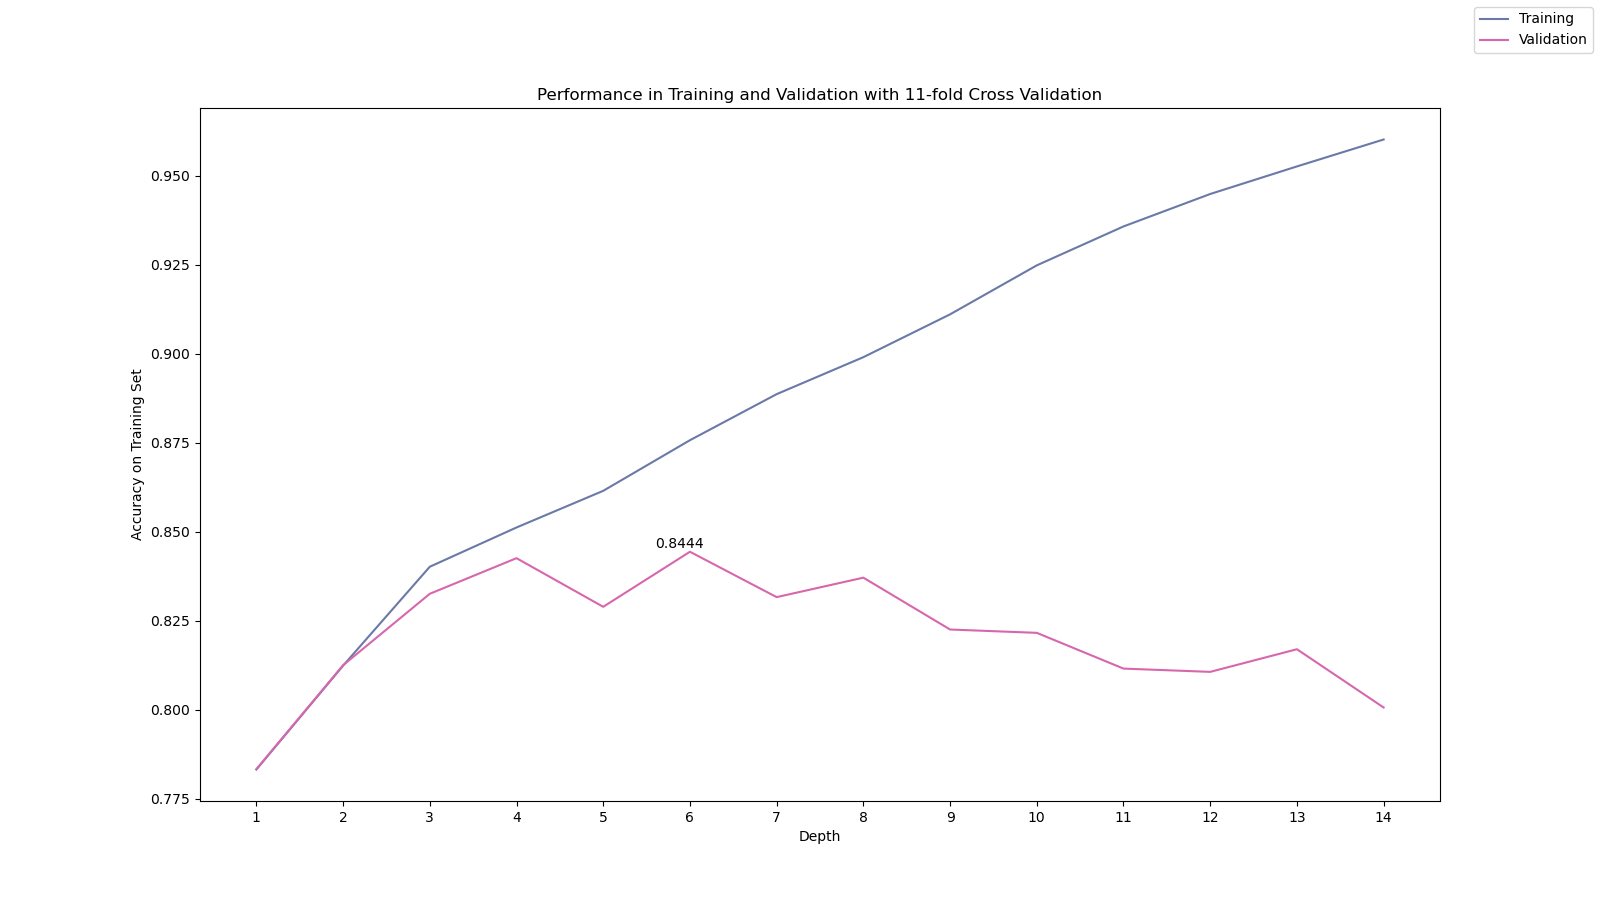
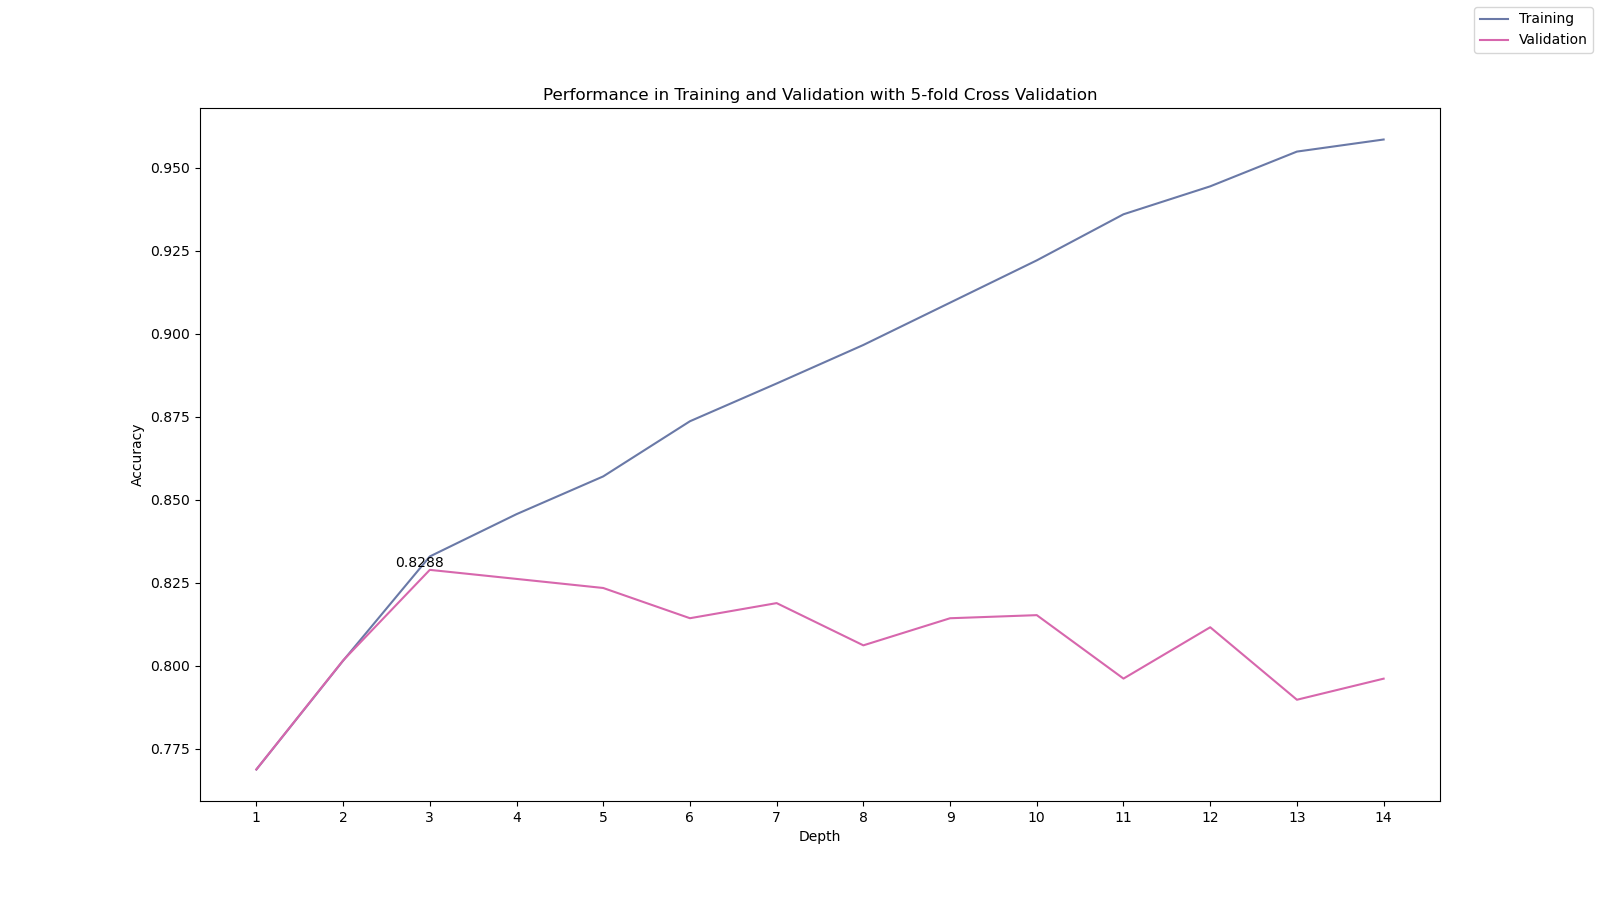
Oversampling resolved

diff --git a/baseline.py b/baseline.py
@@ -3,7 +3,7 @@ import pickle
 import numpy as np
 import pandas as pd
 from sklearn.tree import DecisionTreeClassifier
-from sklearn.model_selection import cross_val_score, train_test_split
+from sklearn.model_selection import cross_validate, train_test_split
 from sklearn.metrics import accuracy_score, confusion_matrix
 from sklearn import preprocessing
 import matplotlib.pyplot as plt
@@ -93,26 +93,44 @@ Call, train and evaluate the model
 '''
 Find out the level of depth without overfitting
 '''
-# for i in range(3, 21):
-#     clf = tree.DecisionTreeClassifier(max_depth=i, random_state=0)
-#     scores = cross_val_score(estimator=clf, X=X_train, y=y_train, cv=cv, n_jobs=4)
-#     pred_valid = clf.predict(X_valid)
-#     acc_score.append(accuracy_score(y_valid, pred_valid))
-#     depth.append((i, scores.mean()))
+scr_tr, scr_val = [], []
+for i in range(1, 15):
+    clf = DecisionTreeClassifier(max_depth=i, random_state=0)
+    clf.fit(X_train, y_train)
+
+    pred_tr = clf.predict(X_train)
+    scr_tr.append(accuracy_score(y_train, pred_tr))
+
+    pred_valid = clf.predict(X_valid)
+    scr_val.append(accuracy_score(y_valid, pred_valid))
+
+
+
+
+# 5-fold Cross Validation
+# cv = 5
+# scr_tr, scr_val = [], []
+# for i in range(1, 15):
+#     clf = DecisionTreeClassifier(max_depth=i, random_state=0)
+#     scores = cross_validate(estimator=clf, X=X, y=y, cv=cv, n_jobs=4, return_train_score=True)
+#     scr_tr.append(scores['train_score'].mean())
+#     scr_val.append(scores['test_score'].mean())
 
 # # Print the training results
-# ax_x = [i for i in range(3,21)]
-# ax_y = [i[1] for i in depth]
+ax_x = [i for i in range(1,15)]
 
-# fig = plt.figure(figsize=(16,9))
-# plt.plot(ax_x, ax_y, 'o', color='#aeff6e')
-# plt.plot(ax_x, acc_score, color='#d767ad')
-# fig.legend(['Training', 'Validation'])
+fig = plt.figure(figsize=(16,9))
+plt.plot(ax_x, scr_tr, color='#6a79a7')
+plt.plot(ax_x, scr_val, color='#d767ad')
+fig.legend(['Training', 'Validation'])
 
-# # plt.xticks(np.array(range(3,21)))
-# # plt.xlabel('Depth')
-# # plt.ylabel('Accuracy on Training Set')
-# plt.title('Performance in Training and Validation')
+plt.xticks(np.array(range(1,15)))
+plt.xlabel('Depth')
+plt.ylabel('Accuracy on Training Set')
+plt.title('Performance in Training and Validation')
+
+plt.savefig('baseline.png')
+plt.show()
 
 
 '''

diff --git a/GSMOTE.py b/GSMOTE.py
@@ -98,7 +98,7 @@ Call, train and evaluate the model
 '''
 Find out the level of depth without overfitting
 '''
-cv = 11
+cv = 5
 scr_tr, scr_val = [], []
 for i in range(1, 15):
     clf = DecisionTreeClassifier(max_depth=i, random_state=0)
@@ -117,7 +117,7 @@ fig.legend(['Training', 'Validation'])
 plt.annotate(float(round(max(scr_val), 4)), xy=(scr_val.index(max(scr_val))+.6,max(scr_val)+.001))
 plt.xticks(np.array(range(1,15)))
 plt.xlabel('Depth')
-plt.ylabel('Accuracy on Training Set')
+plt.ylabel('Accuracy')
 plt.title('Performance in Training and Validation with %d-fold Cross Validation' %cv)
 
 plt.savefig('GSMOTE_best depth search.png')
